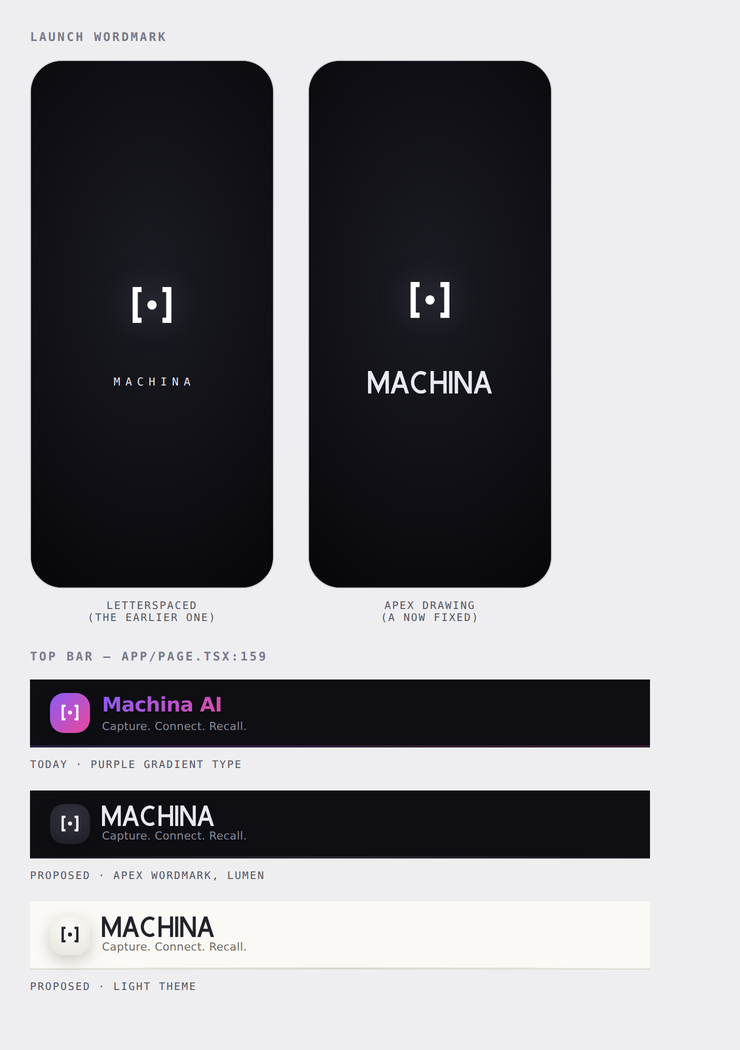
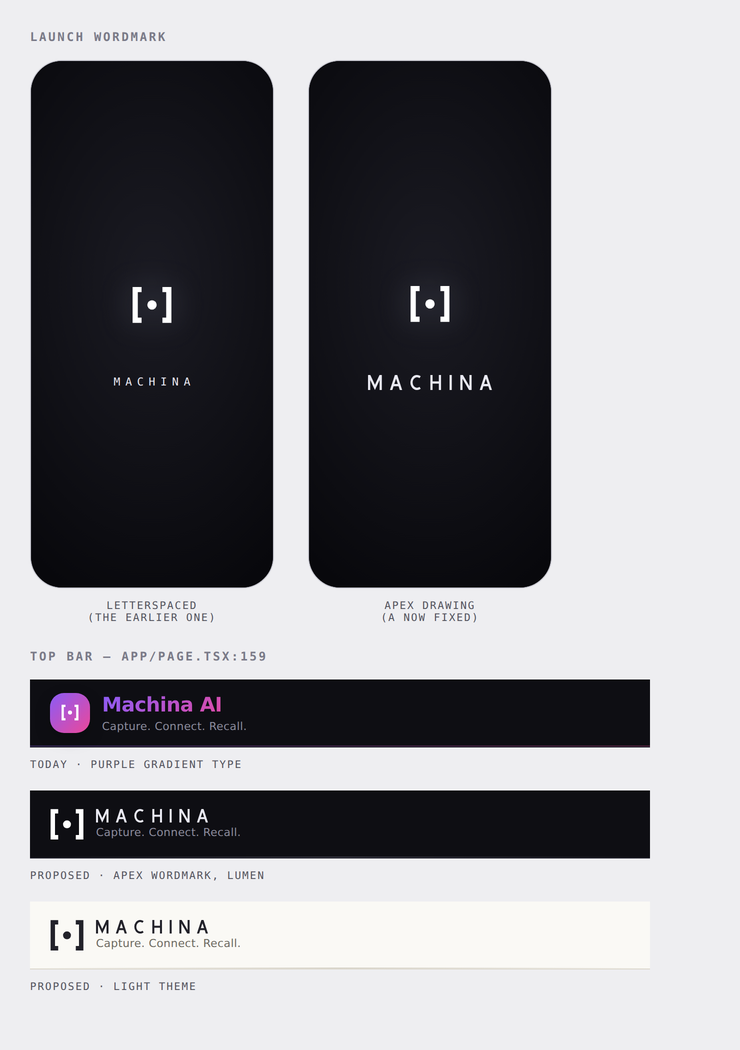
Design: track the wordmark wide, and drop the tile from the header mark
Two owner notes from device QA, both about the header.

The mark sat in a rounded grey tile, which reads as a shrunken app icon rather
than as the brand mark. It is now bare. That needed a tight viewBox as well as
a removed background — the full 1024 canvas is ~58% empty margin, so a bare
glyph in a 40px slot would otherwise render at about 17px.

More importantly the header wordmark was set tight while the launch screen is
set wide, and the wide setting is the thing that makes the word look like a
mark at all. Default tracking goes 44 -> 240, which lands the drawn wordmark
on the launch screen's airiness; wordmark() takes a `track` override so the
value stays tunable rather than baked into the paths.

This also answers the two-treatments problem flagged last commit. With the
drawing tracked to match, the launch screen's monospace setting and the
header's drawing now differ only in source, not in feel — and launch_unify.png
shows the drawn wordmark standing in at launch, which would collapse them to
one. Left as the owner set it pending that call.

Claude-Session: https://claude.ai/code/session_01FTEkC2vZJvK1xES5VBzpwh

diff --git a/design/icon-concepts/machina-identity.html b/design/icon-concepts/machina-identity.html
@@ -213,12 +213,12 @@
     gap: 12px; padding: 0 18px; margin-top: 26px;
     background: var(--panel); border: 1px solid var(--line); border-radius: 3px;
   }
-  .topbar .tile { width: 40px; height: 40px; border-radius: 14px; flex: 0 0 40px;
-    background: radial-gradient(120% 110% at 50% 34%, var(--tile-a), var(--tile-b));
-    display: grid; place-items: center; }
-  .topbar .tile svg { width: 100%; height: 100%; color: var(--mark); }
+  /* Bare glyph, no tile: a rounded container in the header reads as a shrunken
+     app icon rather than as the brand mark. */
+  .topbar .glyph { width: 34px; flex: 0 0 34px; }
+  .topbar .glyph svg { display: block; width: 100%; height: auto; fill: var(--mark); }
   .topbar .stack { display: grid; gap: 4px; }
-  .topbar .wm { width: 112px; }
+  .topbar .wm { width: 178px; }
   .topbar .wm svg { display: block; width: 100%; height: auto; fill: var(--text); }
   .topbar .tag { font-size: 11px; color: var(--muted); }
   .phonecol { display: grid; gap: 13px; justify-items: center; }
@@ -426,9 +426,9 @@
         <h3>In the app</h3>
         <p class="note" style="margin-top:10px">The drawn wordmark replaces the purple gradient type in the header at <span class="mono" style="font-size:13px">app/page.tsx:159</span>.</p>
         <div class="topbar">
-          <div class="tile" id="barTile"></div>
+          <div class="glyph"><svg viewBox="288 292 448 416" role="img" aria-label="Machina"><path d="M296.0 300.0 L396.0 300.0 L396.0 358.0 L354.0 358.0 L354.0 642.0 L396.0 642.0 L396.0 700.0 L296.0 700.0 Z"/><path d="M728.0 300.0 L628.0 300.0 L628.0 358.0 L670.0 358.0 L670.0 642.0 L628.0 642.0 L628.0 700.0 L728.0 700.0 Z"/><path d="M460.0 500.0 A52.0 52.0 0 1 0 564.0 500.0 A52.0 52.0 0 1 0 460.0 500.0 Z"/></svg></div>
           <div class="stack">
-            <div class="wm"><svg viewBox="0 0 2309 422" role="img" aria-label="Machina"><path d="M 0.0 422.0 L 0.0 0.0 L 65.2 0.0 L 194.0 275.6 L 322.8 0.0 L 388.0 0.0 L 388.0 422.0 L 326.0 422.0 L 326.0 139.6 L 194.0 422.0 L 62.0 139.6 L 62.0 422.0 Z M 558.5 0.0 L 625.5 0.0 L 487.0 422.0 L 420.0 422.0 Z M 558.5 0.0 L 625.5 0.0 L 764.0 422.0 L 697.0 422.0 Z M 536.4 253.2 L 647.6 253.2 L 668.0 315.2 L 516.0 315.2 Z M 1090.0 385.9 A 186.0 211.0 0 1 1 1090.0 36.1 L 1055.3 87.5 A 124.0 149.0 0 1 0 1055.3 334.5 Z M 1165.0 0.0 L 1227.0 0.0 L 1227.0 422.0 L 1165.0 422.0 Z M 1403.0 0.0 L 1465.0 0.0 L 1465.0 422.0 L 1403.0 422.0 Z M 1227.0 180.0 L 1403.0 180.0 L 1403.0 242.0 L 1227.0 242.0 Z M 1509.0 0.0 L 1571.0 0.0 L 1571.0 422.0 L 1509.0 422.0 Z M 1615.0 0.0 L 1677.0 0.0 L 1677.0 422.0 L 1615.0 422.0 Z M 1871.0 0.0 L 1933.0 0.0 L 1933.0 422.0 L 1871.0 422.0 Z M 1615.0 0.0 L 1687.5 0.0 L 1933.0 422.0 L 1860.5 422.0 Z M 2103.5 0.0 L 2170.5 0.0 L 2032.0 422.0 L 1965.0 422.0 Z M 2103.5 0.0 L 2170.5 0.0 L 2309.0 422.0 L 2242.0 422.0 Z M 2081.4 253.2 L 2192.6 253.2 L 2213.0 315.2 L 2061.0 315.2 Z"/></svg></div>
+            <div class="wm"><svg viewBox="0 0 3485 422" role="img" aria-label="Machina"><path d="M 0.0 422.0 L 0.0 0.0 L 65.2 0.0 L 194.0 275.6 L 322.8 0.0 L 388.0 0.0 L 388.0 422.0 L 326.0 422.0 L 326.0 139.6 L 194.0 422.0 L 62.0 139.6 L 62.0 422.0 Z M 754.5 0.0 L 821.5 0.0 L 683.0 422.0 L 616.0 422.0 Z M 754.5 0.0 L 821.5 0.0 L 960.0 422.0 L 893.0 422.0 Z M 732.4 253.2 L 843.6 253.2 L 864.0 315.2 L 712.0 315.2 Z M 1482.0 385.9 A 186.0 211.0 0 1 1 1482.0 36.1 L 1447.3 87.5 A 124.0 149.0 0 1 0 1447.3 334.5 Z M 1753.0 0.0 L 1815.0 0.0 L 1815.0 422.0 L 1753.0 422.0 Z M 1991.0 0.0 L 2053.0 0.0 L 2053.0 422.0 L 1991.0 422.0 Z M 1815.0 180.0 L 1991.0 180.0 L 1991.0 242.0 L 1815.0 242.0 Z M 2293.0 0.0 L 2355.0 0.0 L 2355.0 422.0 L 2293.0 422.0 Z M 2595.0 0.0 L 2657.0 0.0 L 2657.0 422.0 L 2595.0 422.0 Z M 2851.0 0.0 L 2913.0 0.0 L 2913.0 422.0 L 2851.0 422.0 Z M 2595.0 0.0 L 2667.5 0.0 L 2913.0 422.0 L 2840.5 422.0 Z M 3279.5 0.0 L 3346.5 0.0 L 3208.0 422.0 L 3141.0 422.0 Z M 3279.5 0.0 L 3346.5 0.0 L 3485.0 422.0 L 3418.0 422.0 Z M 3257.4 253.2 L 3368.6 253.2 L 3389.0 315.2 L 3237.0 315.2 Z"/></svg></div>
             <div class="tag">Capture. Connect. Recall.</div>
           </div>
         </div>
@@ -706,7 +706,6 @@
 
   /* ── Launch sequence ──────────────────────────────────────────────────── */
   makeMark(document.getElementById("splashTile"), { glow: false })(LOCKED);
-  makeMark(document.getElementById("barTile"), { glow: false })(LOCKED);
   const drawSplash = makeMark(document.getElementById("splashMark"), { glow: false });
   const splash = document.getElementById("splash"), shell = document.getElementById("appshell"),
         wordmark = document.getElementById("wordmark");

diff --git a/design/icon-concepts/topbar.py b/design/icon-concepts/topbar.py
@@ -46,6 +46,8 @@ h2:first-child{margin-top:0}
 .tile{width:40px;height:40px;border-radius:14px;display:grid;place-items:center;
   box-shadow:0 6px 16px rgba(0,0,0,.18)}
 .tile svg{width:100%;height:100%}
+.glyph{width:34px;flex:0 0 34px;display:grid}
+.glyph svg{display:block;width:100%;height:auto}
 .stack{display:grid;gap:4px}
 .tag{font-size:11px;font-weight:500;letter-spacing:.02em}
 .today{--bd:#22222C;background:#0E0E13}
@@ -66,10 +68,13 @@ h2:first-child{margin-top:0}
 """
 
 
-def bar(kind, w_html, mark_svg):
+def bar(kind, w_html, mark_svg, tile=True):
+    badge = (f'<div class="tile"><svg viewBox="0 0 1024 1024">{mark_svg}</svg></div>'
+             if tile else
+             f'<div class="glyph"><svg viewBox="288 292 448 416">{mark_svg}</svg></div>')
     return f"""<div class="bar {kind}"><div class="glow"></div>
       <div class="brand">
-        <div class="tile"><svg viewBox="0 0 1024 1024">{mark_svg}</svg></div>
+        {badge}
         <div class="stack">{w_html}<div class="tag">Capture. Connect. Recall.</div></div>
       </div></div>"""
 
@@ -92,9 +97,9 @@ def main():
     <div class="row" style="flex-direction:column;gap:20px">
       <div class="col" style="justify-items:start">{bar('today', today_h1, MARK)}
         <div class="cap">today · purple gradient type</div></div>
-      <div class="col" style="justify-items:start">{bar('prop', word(112), MARK)}
+      <div class="col" style="justify-items:start">{bar('prop', word(112), MARK, tile=False)}
         <div class="cap">proposed · apex wordmark, lumen</div></div>
-      <div class="col" style="justify-items:start">{bar('lightbar', word(112, '#22222A'), MARK_D)}
+      <div class="col" style="justify-items:start">{bar('lightbar', word(112, '#22222A'), MARK_D, tile=False)}
         <div class="cap">proposed · light theme</div></div>
     </div>"""
 

diff --git a/design/icon-concepts/wordmark.py b/design/icon-concepts/wordmark.py
@@ -11,7 +11,9 @@ import math, os, re
 from marks import m_outline, solve_vY
 
 CAP, W = 422.0, 62.0          # cap height and stroke weight, matching Apex
-TRACK, SPACE = 44.0, 124.0    # letterspacing and word space
+# Set WIDE. The airiness is what makes this read as a mark rather than as a
+# word, and it is the single thing that has to hold at every size it appears.
+TRACK, SPACE = 240.0, 150.0
 
 
 def _rect(x, y, w, h):
@@ -112,12 +114,18 @@ KERN = {("M", "A"): -12, ("A", "C"): -8, ("C", "H"): 0,
         ("N", "A"): -12, ("A", "I"): -20}
 
 
-def wordmark(text="MACHINA AI"):
-    """Lay the string out and return (subpaths, total width)."""
+def wordmark(text="MACHINA AI", track=None):
+    """Lay the string out and return (subpaths, total width).
+
+    `track` overrides the default letterspacing. The wordmark is set WIDE:
+    the airiness is the thing that makes it read as a mark rather than as a
+    word, and it has to match at every size it appears.
+    """
+    tr = TRACK if track is None else track
     out, x, prev = [], 0.0, None
     for i, ch in enumerate(text):
         if ch == " ":
-            x += SPACE
+            x += SPACE + tr
             prev = None
             continue
         if prev:
@@ -125,7 +133,7 @@ def wordmark(text="MACHINA AI"):
         subs, w = GLYPHS[ch]()
         for d in subs:
             out.append(_translate(d, x))
-        x += w + (TRACK if i < len(text) - 1 else 0)
+        x += w + (tr if i < len(text) - 1 else 0)
         prev = ch
     return out, x
 
